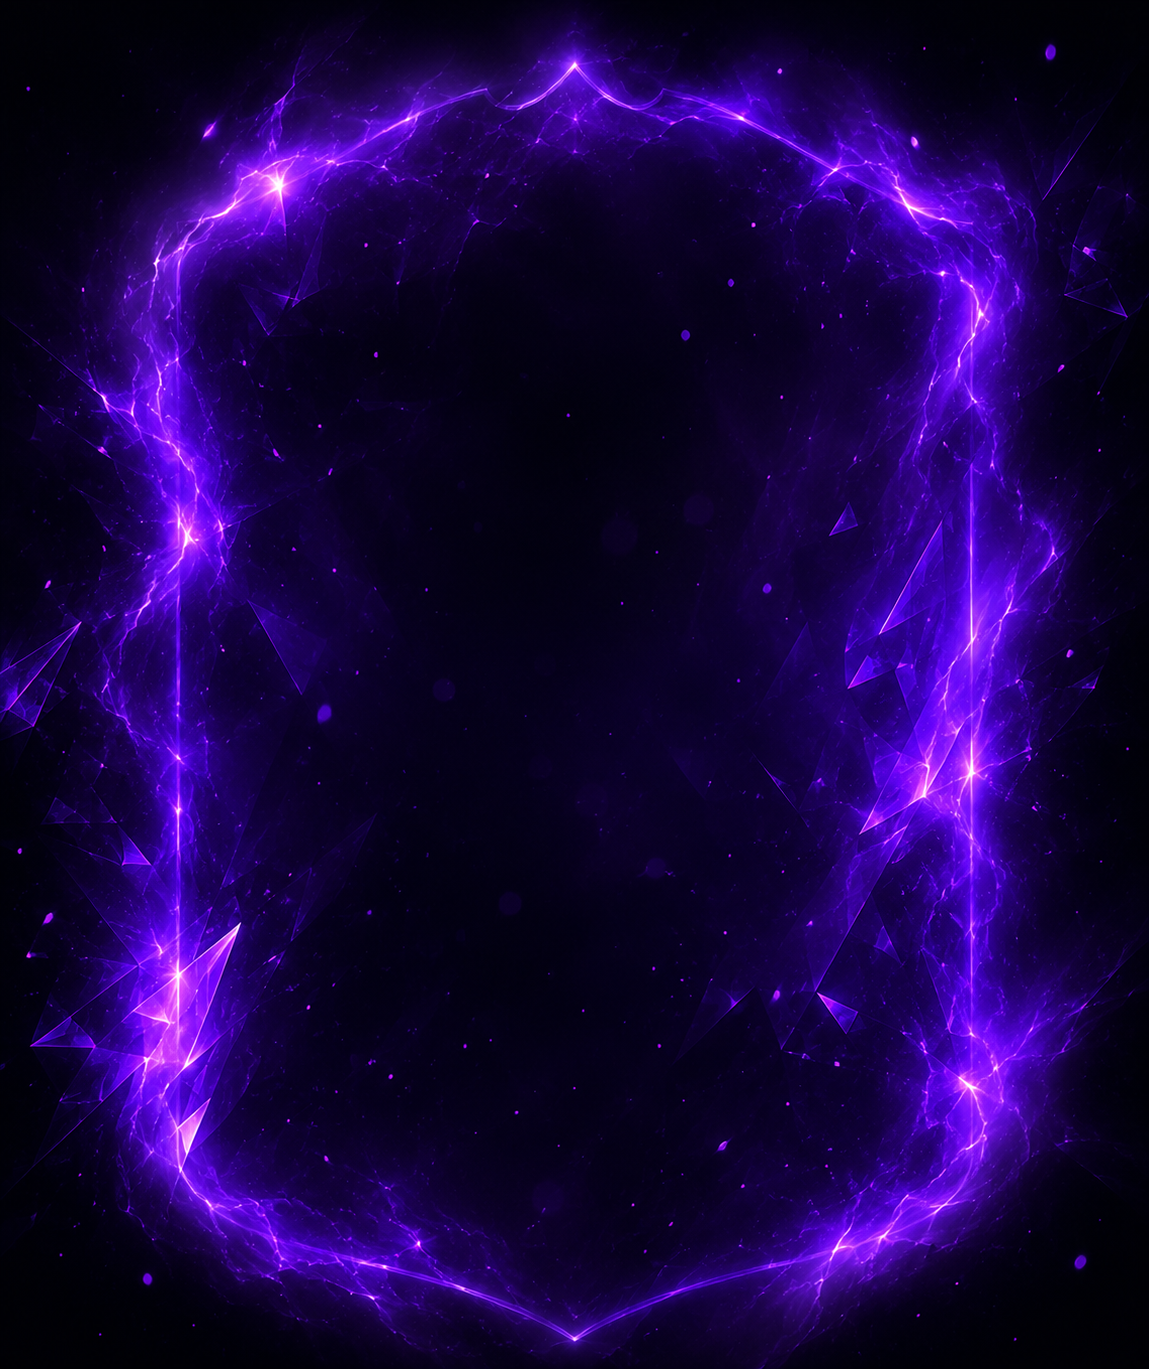
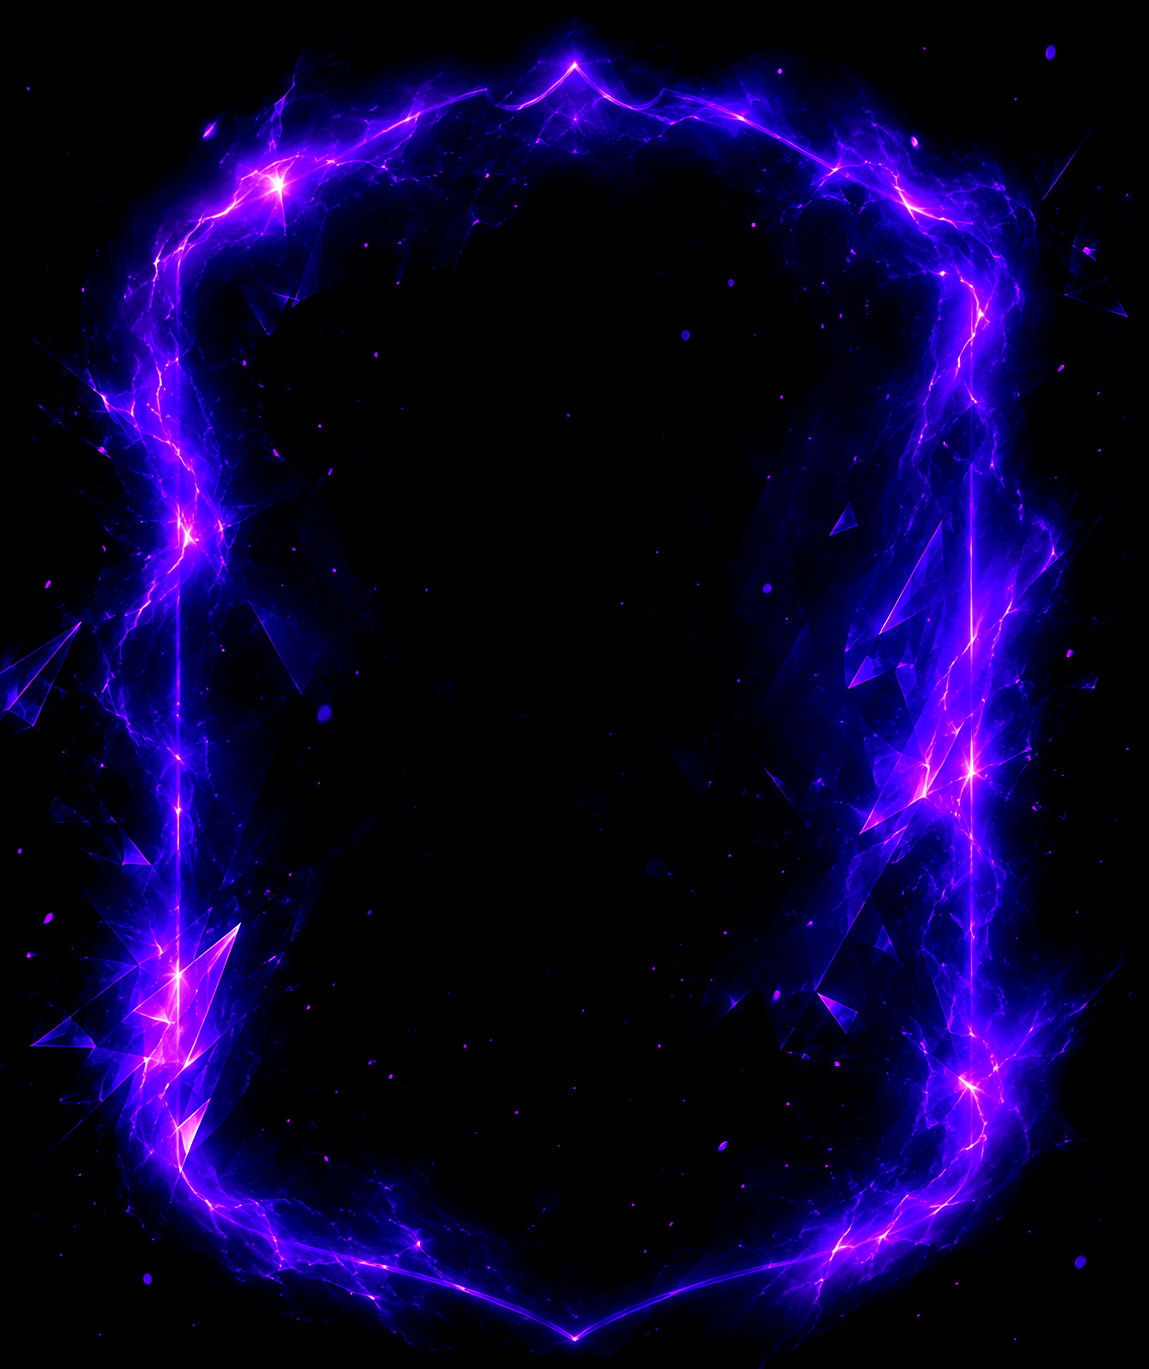
feat(home,profile): fall back to live/upcoming matches when no World Cup fixtures; use arena backdrop on profile card

diff --git a/front/components/profile/ProfileCard.tsx b/front/components/profile/ProfileCard.tsx
@@ -33,7 +33,7 @@ import Svg, {
 // eslint-disable-next-line @typescript-eslint/no-var-requires
 const CARD_BACK = require('../../assets/images/profile-card-back.png') as number;
 // eslint-disable-next-line @typescript-eslint/no-var-requires
-const AROUND_CARD = require('../../assets/images/around-card.png') as number;
+const ARENA_BG = require('../../assets/images/arena.png') as number;
 
 // ── Animation helpers ────────────────────────────────────────────────────────
 const useSafeLoop = (from: number, to: number, duration: number, easing = Easing.bezier(0.4, 0, 0.2, 1)) => {
@@ -190,18 +190,27 @@ const ProfileCard = memo(function ProfileCard({
     <View style={{ alignItems: 'center' }}>
       <View style={[s.container, { width: cardWidth, height: cardHeight }]}>
 
-        {/* ── around-card.png — static background behind the card ─── */}
-        <Image
-          source={AROUND_CARD}
-          style={[s.aroundCard, {
-            width: cardWidth * 3.399,
-            height: cardHeight * 1.175,
-            left: -cardWidth * 1.215,
-            top: -cardHeight * 0.121,
+        {/* ── arena.png — stadium backdrop behind the card (matches Rank) ─── */}
+        <View
+          pointerEvents="none"
+          style={[s.arenaBg, {
+            width: cardWidth * 1.9,
+            height: cardHeight * 1.12,
+            left: -cardWidth * 0.45,
+            top: -cardHeight * 0.06,
           }]}
-          contentFit="contain"
-          cachePolicy="memory-disk"
-        />
+        >
+          <Image
+            source={ARENA_BG}
+            style={s.arenaImg}
+            contentFit="cover"
+            cachePolicy="memory-disk"
+          />
+          <LinearGradient
+            colors={['#05010D', 'transparent', '#05010D']}
+            style={StyleSheet.absoluteFill}
+          />
+        </View>
 
         {/* ── SVG: border + body + crown + image + energy layers ────── */}
         <Svg width={cardWidth} height={cardHeight}
@@ -499,10 +508,17 @@ const s = StyleSheet.create({
   cardSvg: { position: 'absolute', top: 0, left: 0 },
   quadrantContainer: { position: 'absolute', overflow: 'hidden', zIndex: 10 },
 
-  // around-card.png rotating behind the card
-  aroundCard: {
+  // arena.png stadium backdrop behind the card
+  arenaBg: {
     position: 'absolute',
     zIndex: -1,
+    overflow: 'hidden',
+    borderRadius: 24,
+  },
+  arenaImg: {
+    width: '100%',
+    height: '100%',
+    opacity: 0.5,
   },
 
   // Animated inner border glow

diff --git a/front/src/store/home.store.ts b/front/src/store/home.store.ts
@@ -159,6 +159,50 @@ const mapLeagueMatchToHomeMatch = (m: LeagueMatch, isFavorited: boolean): Match 
     date: m.fixtureDate,
 });
 
+/**
+ * Fallback for the Home matches strip when there are no World Cup fixtures
+ * today (e.g. a rest day between knockout rounds): show any live or upcoming
+ * match from the general calendar so the section is never empty.
+ */
+async function fetchGeneralLiveUpcomingMatches(favoriteIds: string[]): Promise<Match[]> {
+    const today = new Date();
+
+    let liveFixtures: Fixture[] = [];
+    try {
+        liveFixtures = await ApiFootballService.getLiveFixtures();
+    } catch (err) {
+        logger.warn('WC fallback: failed to fetch live fixtures:', err);
+    }
+
+    let batchedFixtures: Fixture[] = [];
+    try {
+        batchedFixtures = await matchesBatchService.getMatches(today);
+    } catch (err) {
+        logger.warn('WC fallback: failed to fetch batched fixtures:', err);
+    }
+
+    const uniqueFixturesMap = new Map<number, Fixture>();
+    const isValid = (f: Fixture) =>
+        f?.fixture?.id && f?.teams?.home?.name && f?.teams?.away?.name && f?.league?.name;
+    liveFixtures.forEach((f) => {
+        if (isValid(f)) uniqueFixturesMap.set(f.fixture.id, f);
+    });
+    batchedFixtures.forEach((f) => {
+        if (isValid(f) && !uniqueFixturesMap.has(f.fixture.id)) {
+            uniqueFixturesMap.set(f.fixture.id, f);
+        }
+    });
+
+    const mapped = Array.from(uniqueFixturesMap.values()).map((fixture) =>
+        mapFixtureToMatch(fixture, favoriteIds.includes(String(fixture.fixture.id))),
+    );
+    // Only live or upcoming — drop finished matches.
+    const liveOrUpcoming = mapped.filter(
+        (m) => m.isLive || !isMatchFinished(m.statusShort ?? ''),
+    );
+    return sortMatches(liveOrUpcoming, favoriteIds).slice(0, 15);
+}
+
 async function fetchWorldCupHomeMatches(
     favoriteIds: string[],
     leagueId: number,
@@ -168,7 +212,11 @@ async function fetchWorldCupHomeMatches(
     const mapped = list.map((m) =>
         mapLeagueMatchToHomeMatch(m, favoriteIds.includes(m.id)),
     );
-    return sortMatches(mapped, favoriteIds).slice(0, 15);
+    const sorted = sortMatches(mapped, favoriteIds).slice(0, 15);
+    if (sorted.length > 0) return sorted;
+
+    // No World Cup matches today → fall back to any live/upcoming matches.
+    return fetchGeneralLiveUpcomingMatches(favoriteIds);
 }
 
 async function ensureCampaignFeaturesHydrated(): Promise<{
